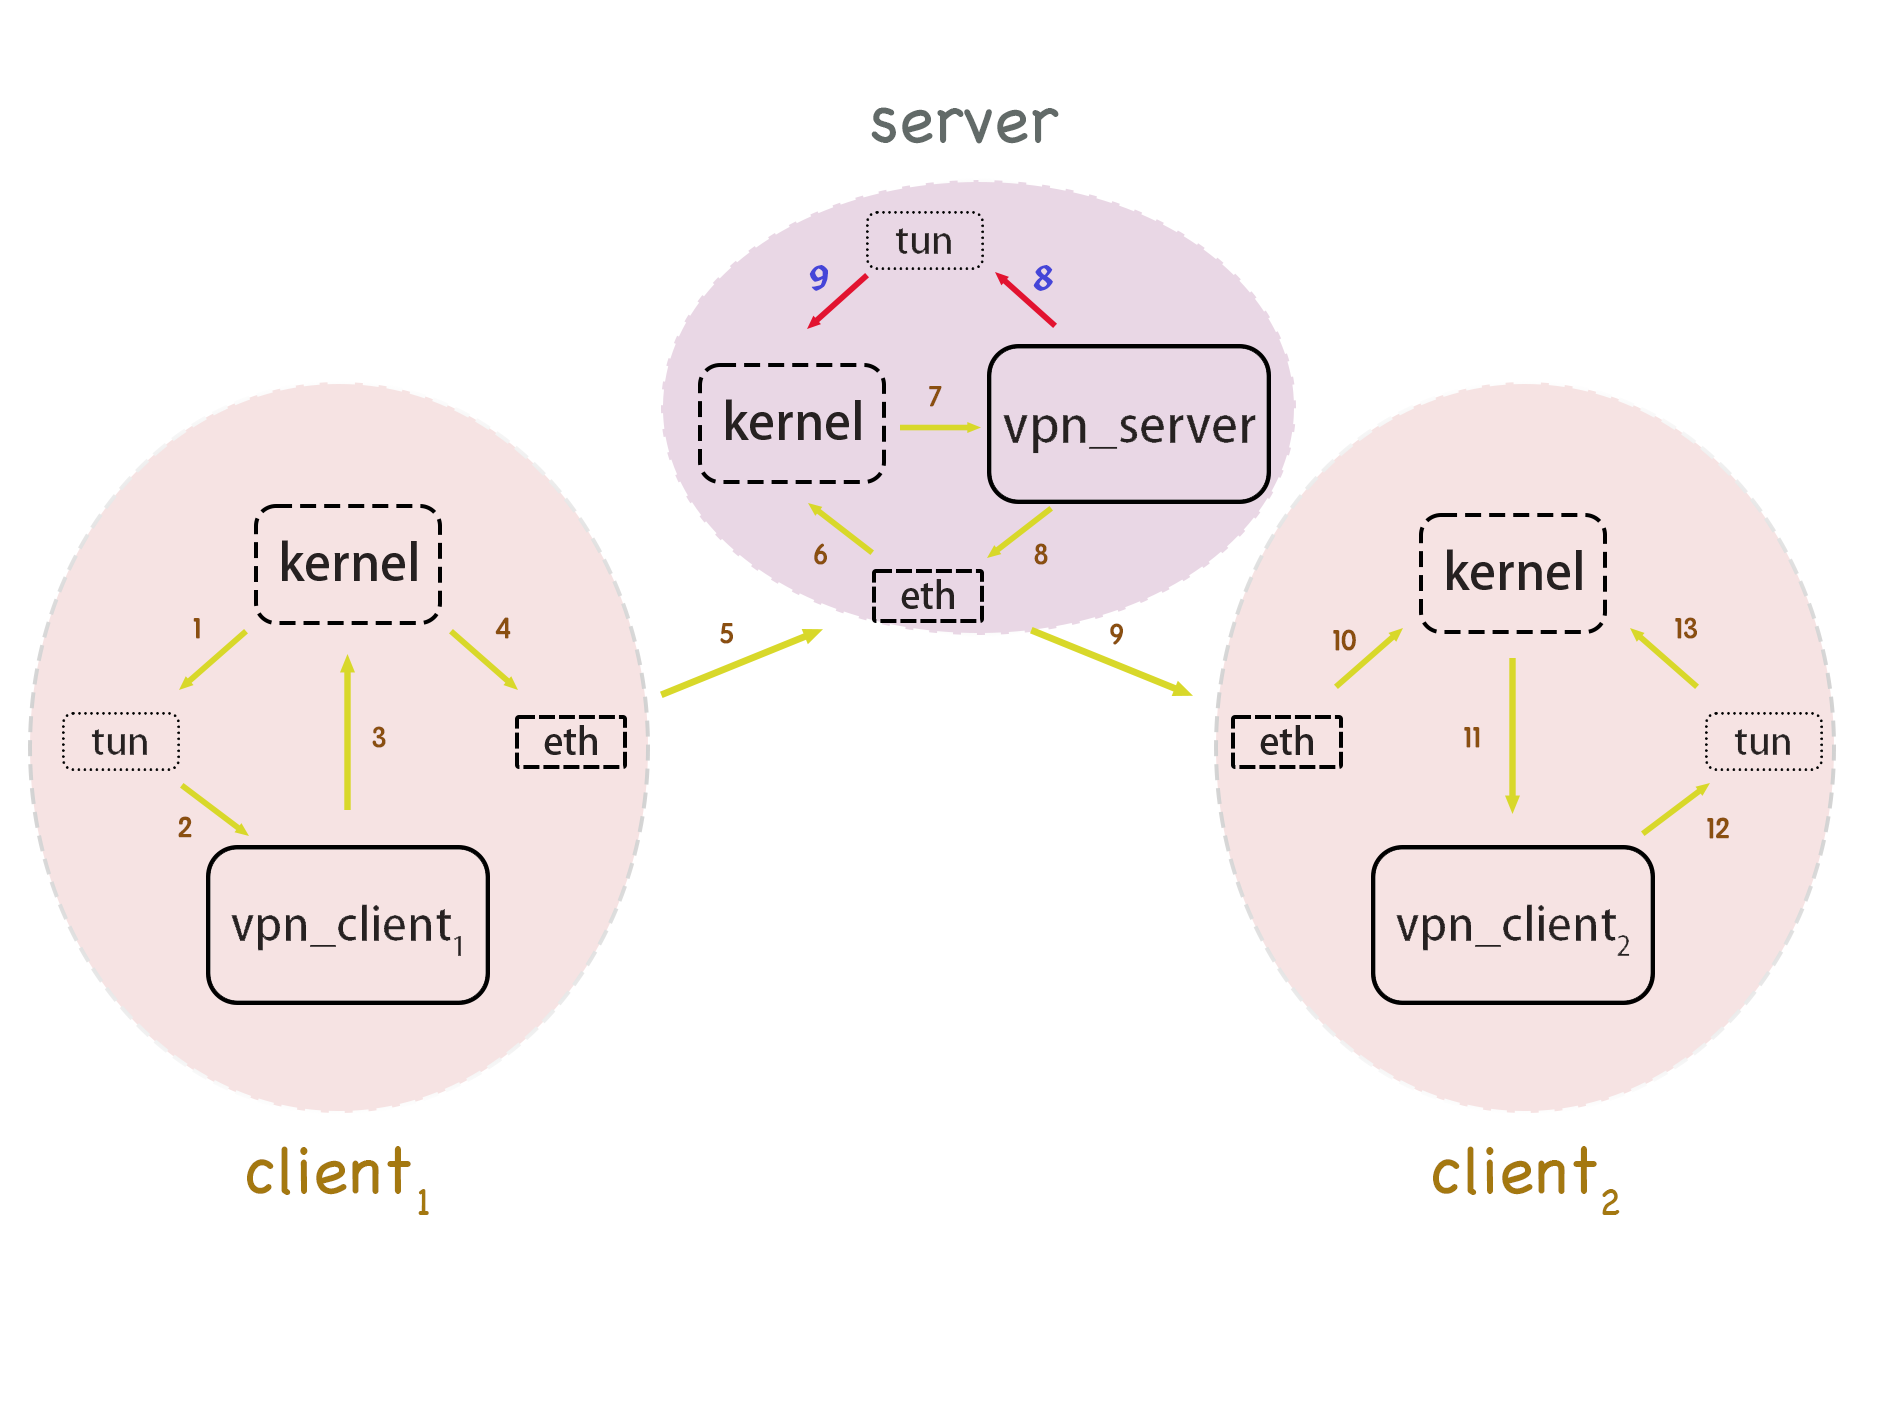
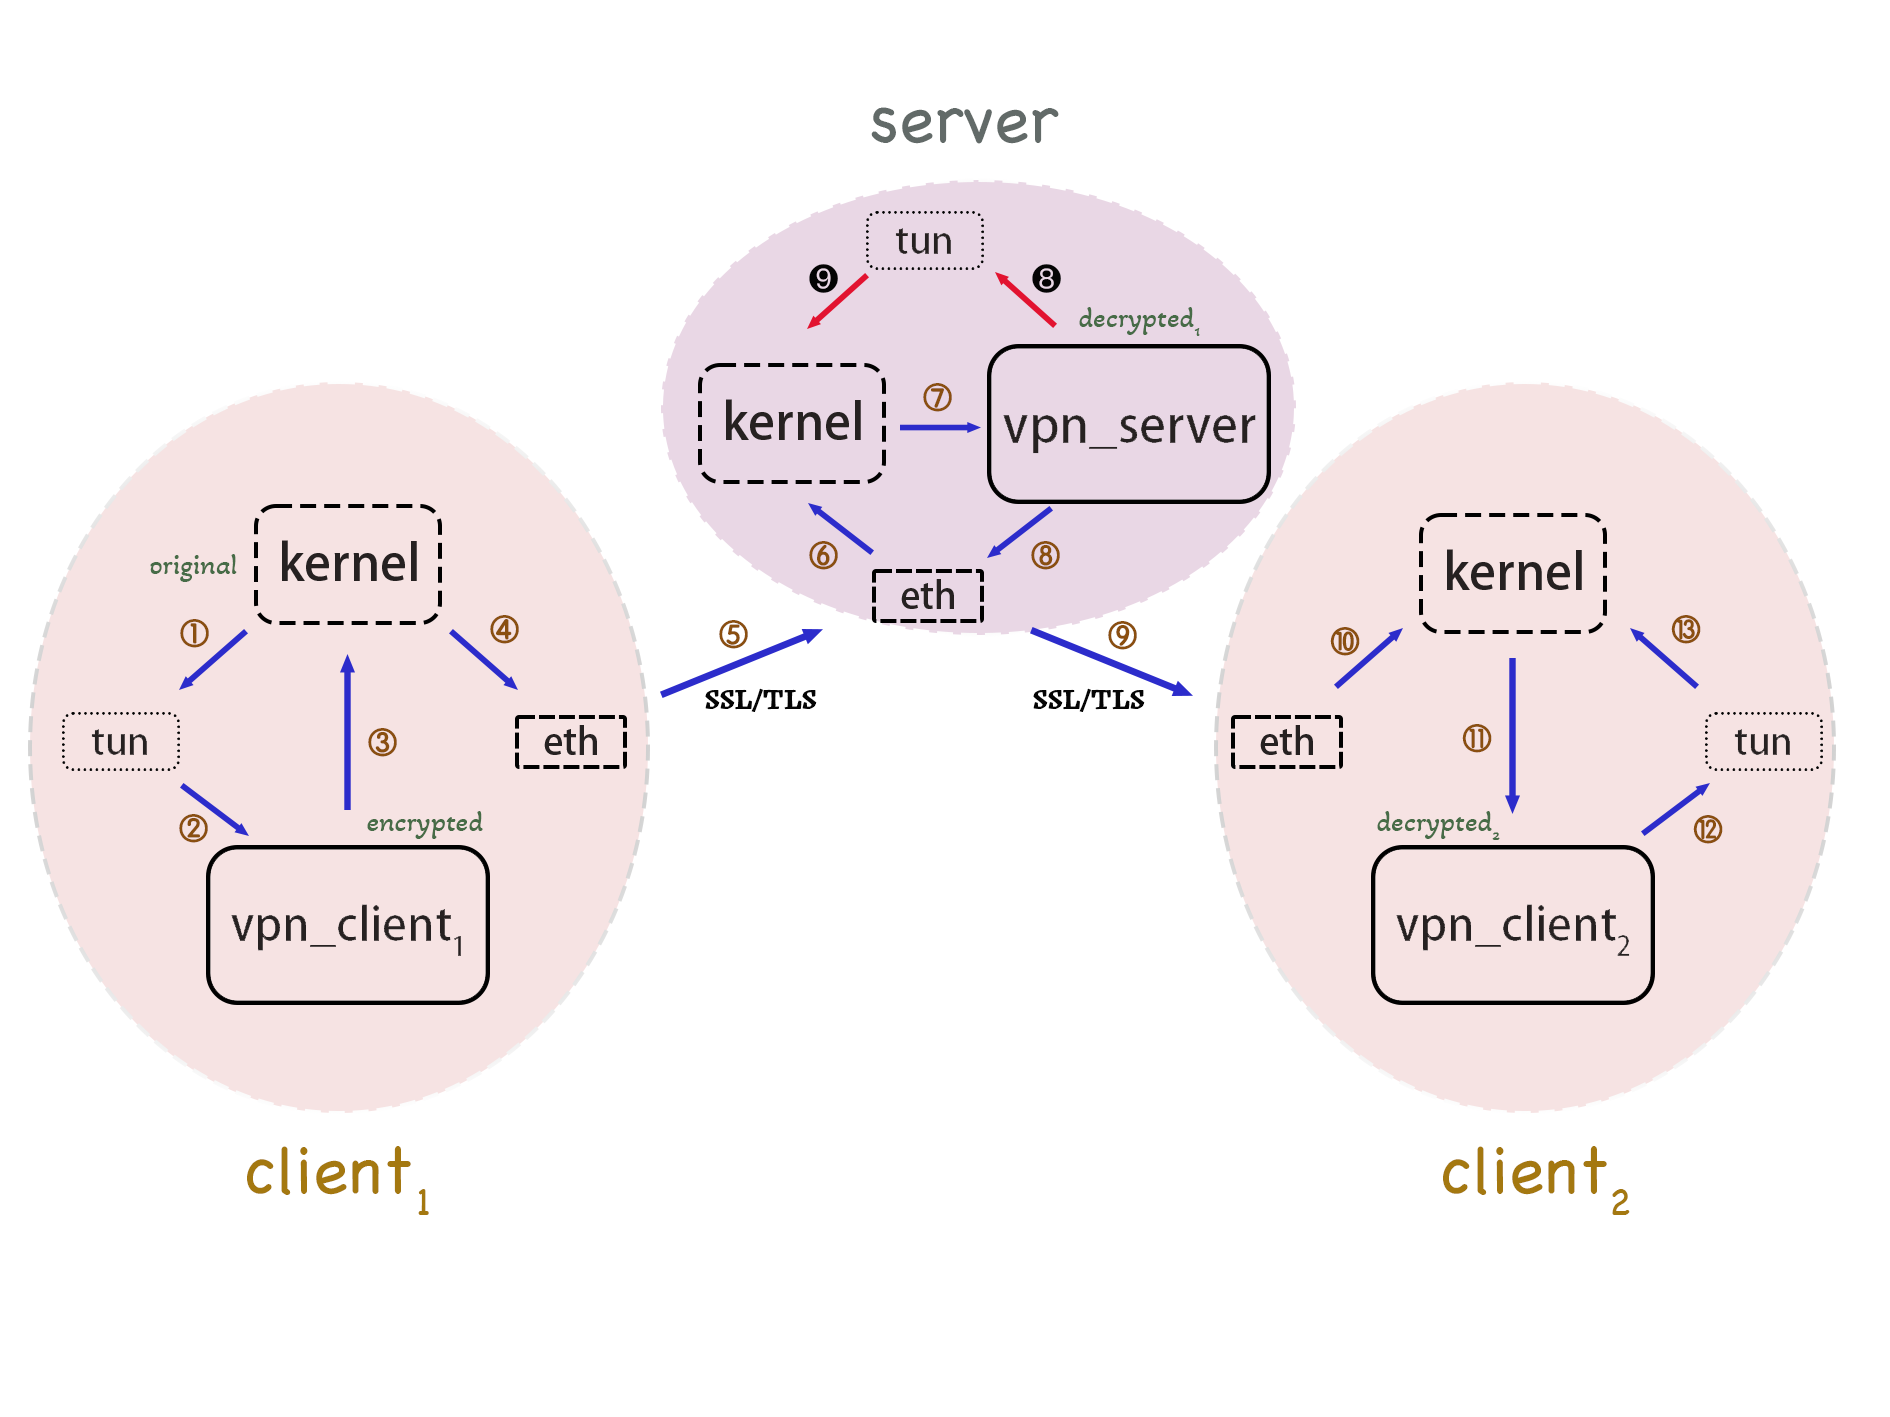
update architecture graph & README

diff --git a/README.md b/README.md
@@ -1,50 +1,46 @@
-# OpenSSL VPN Demo
+# OpenSSL VPN
 
 ## 简介
 
-面向Linux/MacOS的轻量级SSL VPN
+- 面向Linux/MacOS的轻量级SSL VPN
 
-一个vpn_server与多个vpn_client之间构成一个虚拟子网，vpn_client与vpn_server建立连接时，vpn_server会自动给vpn_client分配一个虚拟IPv4地址，之后便可按照局域网通信的方式访问虚拟子网内所有主机
+- 一个vpn_server与多个vpn_client之间构成一个虚拟子网，vpn_client与vpn_server建立连接时，vpn_server会自动给vpn_client分配一个虚拟IPv4地址，之后便可按照局域网通信的方式访问虚拟子网内所有主机，以实现不同NAT内两个client的端到端直接通信
 
-vpn_server与vpn_client间采用TLS加密通信，超过一定时间加密链路上无数据传输，则对应连接关闭并释放资源（暂定2000秒）
-
-vpn_server处设有源地址验证机制，防止子网内部伪造源地址
-
-## 实现目标
-
-- 基础目标：虚拟子网内的加密通信
-- 扩展目标：代理功能
-
-## 实现阶段
-
-- $\checkmark$ 子网内通信 (已测试icmp echo, ssh)
-- $\square$ 代理功能
-
-## 架构图
+## 架构
 
 ![OpenSSL VPN架构](images/openssl-vpn-architecture.png)
 
-黄色箭头1到13表示client间通信的报文流向，黄色箭头1到7和红色箭头8到9表示client往server发送报文的流向（为简单起见，图中并没有包含使用VPN的应用，仅体现了内核协议栈间的通信），翻转箭头朝向即是反向通信的报文流向。实体网卡间的通信（黄色箭头5和9）均采用SSL/TLS加密。
+- 蓝色箭头1到13表示client间通信的报文流向，蓝色箭头1到7和红色箭头8到9表示client往server发送报文的流向（为简单起见，图中并没有包含使用VPN的应用，仅体现了内核协议栈间的通信），翻转箭头朝向即是反向通信的报文流向，原理相同。实体网卡间的通信（蓝色箭头5和9）均采用SSL/TLS加密。
 
-在本项目实现中，vpn_server实质上担任了client间的网关，在应用层实现路由功能。各主机均创建了一块网络层虚拟网卡tun，并修改路由表表项使目的地址在VPN子网内的报文均被定向到tun中，以供vpn_server, vpn_client监听tun流量并将劫持到的IP报文作为负载送入SSL/TLS连接中。同时，当vpn_server, vpn_client在SSL/TLS连接上收到目的地址为自己VPN内网地址的报文后，通过tun写入内核协议栈，以实现VPN内网通信。
+- 在本项目实现中，vpn_server实质上担任了client间的网关，在应用层实现路由功能。各主机均创建了一块网络层虚拟网卡tun，并修改路由表表项使目的地址在VPN子网内的报文均被定向到tun中，以供vpn_server, vpn_client监听tun流量并将劫持到的IP报文作为负载送入SSL/TLS连接中。同时，当vpn_server, vpn_client在SSL/TLS连接上收到目的地址为自己VPN内网地址的报文后，通过tun写入内核协议栈，以实现VPN内网通信。vpn_server和vpn_client在发送报文时进行加密，接收报文后进行解密，从而实现安全性。
 
-## 编译
+## 使用
+
+### 依赖
+
+确保本机中已预安装CMake，且版本≧3.28.3 (Ubuntu 24.04LTS 默认安装版本)
+
+### 下载
+
+```
+git clone https://github.com/ArtisticFantasy/OpenSSL-VPN.git
+```
+
+### 构建
 
 ```
 ./scripts/build.sh
 ```
 
-## 使用
+### 认证准备
 
-### 准备
-
-1.检查项目目录下```certs/```中是否存在```host.key```和```host.crt```文件，如果没有，则执行
+1.&nbsp;检查项目目录下```certs/```中是否存在```host.key```和```host.crt```文件，如果没有，执行
 
 ```
 ./scripts/gen_certs.sh
 ```
 
-2.获取peer的自签名证书，假设为```/path/to/peer.crt```，执行
+2.&nbsp;获取peer的自签名证书(物理拷贝peer的```certs/host.crt```)，假设为```/path/to/peer.crt```，执行
 
 ```
 ./scripts/add_trusted.sh /path/to/peer.crt
@@ -54,6 +50,8 @@ vpn_server处设有源地址验证机制，防止子网内部伪造源地址
 
 #### server
 
+启动server（监听端口54433）并配置VPN子网地址，执行
+
 ```
 sudo ./build/bin/vpn_server <vpn_subnet_address>/<prefix_len>  (default: 192.168.20.0/24)
 ```
@@ -61,6 +59,8 @@ sudo ./build/bin/vpn_server <vpn_subnet_address>/<prefix_len>  (default: 192.168
 指定子网地址时请使用local address，子网前缀长度不得小于16位
 
 #### client
+
+连接server，执行
 
 ```
 sudo ./build/bin/vpn_client <server_public_address>
